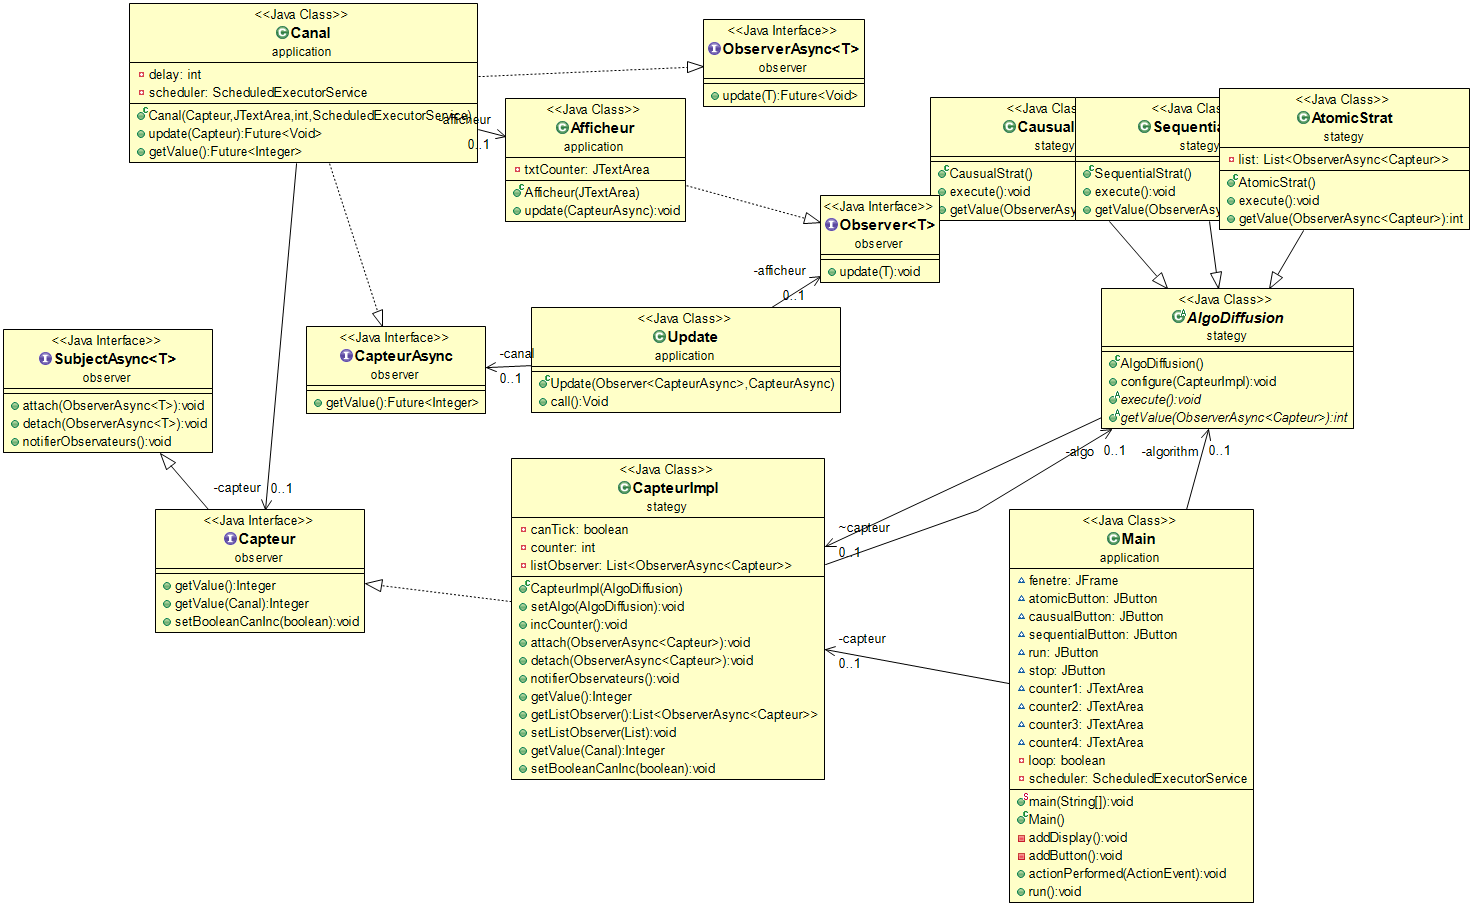
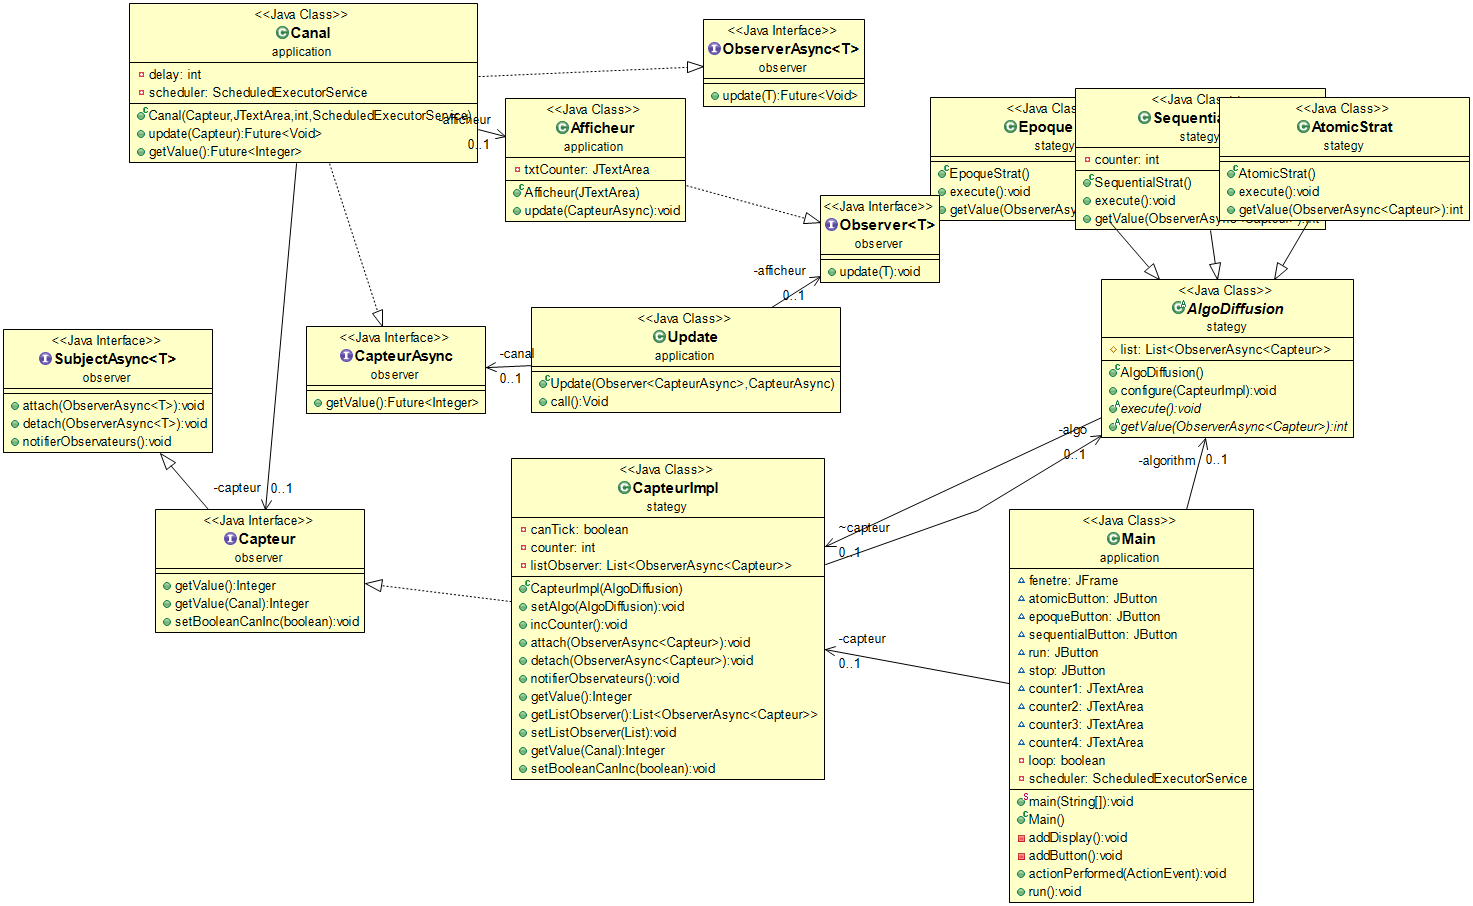
Add epoque + sequentiel

Changed region(s): [[0.6558, 0.0927, 0.9993, 0.5254], [0.7183, 0.6799, 0.7807, 0.7108], [0.687, 0.1236, 0.7183, 0.1545]]

diff --git a/src/application/Main.java b/src/application/Main.java
@@ -14,7 +14,7 @@ import javax.swing.JTextArea;
 import stategy.AlgoDiffusion;
 import stategy.AtomicStrat;
 import stategy.CapteurImpl;
-import stategy.CausualStrat;
+import stategy.EpoqueStrat;
 import stategy.SequentialStrat;
 
 // TODO: Auto-generated Javadoc
@@ -31,7 +31,7 @@ public class Main implements ActionListener,Runnable{
 	JButton atomicButton;
 	
 	/** The causual button. */
-	JButton causualButton;
+	JButton epoqueButton;
 	
 	/** The sequential button. */
 	JButton sequentialButton;
@@ -100,19 +100,19 @@ public class Main implements ActionListener,Runnable{
 	private void addDisplay() {
 		counter1 = new JTextArea("0");
 		fenetre.add(counter1);
-		capteur.attach(new Canal(capteur,counter1,100,scheduler));
+		capteur.attach(new Canal(capteur,counter1,1000,scheduler));
 		
 		counter2 = new JTextArea("0");
 		fenetre.add(counter2);
-		capteur.attach(new Canal(capteur,counter2,200,scheduler));
+		capteur.attach(new Canal(capteur,counter2,2000,scheduler));
 		
 		counter3 = new JTextArea("0");
 		fenetre.add(counter3);
-		capteur.attach(new Canal(capteur,counter3,300,scheduler));
+		capteur.attach(new Canal(capteur,counter3,3000,scheduler));
 
 		counter4 = new JTextArea("0");
 		fenetre.add(counter4);
-		capteur.attach(new Canal(capteur,counter4,400,scheduler));
+		capteur.attach(new Canal(capteur,counter4,4000,scheduler));
 		
 	}
 
@@ -124,9 +124,9 @@ public class Main implements ActionListener,Runnable{
 		fenetre.add(atomicButton);
 		atomicButton.addActionListener(this);
 		
-		causualButton = new JButton("Causual");
-		fenetre.add(causualButton);
-		causualButton.addActionListener(this);
+		epoqueButton = new JButton("Causual");
+		fenetre.add(epoqueButton);
+		epoqueButton.addActionListener(this);
 		
 		sequentialButton = new JButton("Sequential");
 		fenetre.add(sequentialButton);
@@ -152,8 +152,8 @@ public class Main implements ActionListener,Runnable{
 			algorithm = new AtomicStrat();
 			algorithm.configure(capteur);
 			capteur.setAlgo(algorithm);
-		}else if(source==causualButton){
-			algorithm = new CausualStrat();
+		}else if(source==epoqueButton){
+			algorithm = new EpoqueStrat();
 			algorithm.configure(capteur);
 			capteur.setAlgo(algorithm);
 		}else if(source==sequentialButton){

diff --git a/src/stategy/SequentialStrat.java b/src/stategy/SequentialStrat.java
@@ -1,5 +1,6 @@
 package stategy;
 
+import java.util.Iterator;
 import java.util.List;
 
 import observer.Capteur;
@@ -11,19 +12,30 @@ import observer.ObserverAsync;
  */
 public class SequentialStrat extends AlgoDiffusion{
 
+	private int counter;
+	
 	/* (non-Javadoc)
 	 * @see stategy.AlgoDiffusion#execute()
 	 */
 	@Override
 	public void execute() {
-		List<ObserverAsync<Capteur>> list = this.capteur.getListObserver();
-		
+		if(list.isEmpty()){		
+			this.counter = this.capteur.getValue();
+			list = this.capteur.getListObserver();
+			Iterator<ObserverAsync<Capteur>> ite = list.iterator();
+			
+			while(ite.hasNext()){
+				ite.next().update(capteur);
+			}
+		}
 	}
 
 	@Override
 	public int getValue(ObserverAsync<Capteur> canal) {
-		// TODO Auto-generated method stub
-		return 0;
+		if(list.contains(canal))
+			list.remove(canal);
+		System.out.println("SIZE : "+list.size());
+		return counter;
 	}
 
 }

diff --git a/src/stategy/AlgoDiffusion.java b/src/stategy/AlgoDiffusion.java
@@ -1,5 +1,8 @@
 package stategy;
 
+import java.util.ArrayList;
+import java.util.List;
+
 import observer.Capteur;
 import observer.ObserverAsync;
 
@@ -12,6 +15,9 @@ public abstract class AlgoDiffusion {
 	/** The capteur. */
 	CapteurImpl capteur;
 	
+	protected List<ObserverAsync<Capteur>> list;
+
+	
 	/**
 	 * Configure.
 	 *
@@ -19,6 +25,7 @@ public abstract class AlgoDiffusion {
 	 */
 	public void configure(CapteurImpl capteur) {
 		this.capteur = capteur;
+		list = new ArrayList<ObserverAsync<Capteur>>();
 	}
 	
 	/**

diff --git a/src/stategy/EpoqueStrat.java b/src/stategy/EpoqueStrat.java
@@ -9,7 +9,7 @@ import observer.ObserverAsync;
 /**
  * The Class CausualStrat.
  */
-public class CausualStrat extends AlgoDiffusion{
+public class EpoqueStrat extends AlgoDiffusion{
 
 	/* (non-Javadoc)
 	 * @see stategy.AlgoDiffusion#execute()
@@ -25,7 +25,7 @@ public class CausualStrat extends AlgoDiffusion{
 	@Override
 	public int getValue(ObserverAsync<Capteur> canal) {
 		// TODO Auto-generated method stub
-		return 0;
+		return capteur.getValue();
 	}
 
 }

diff --git a/src/stategy/AtomicStrat.java b/src/stategy/AtomicStrat.java
@@ -13,7 +13,6 @@ import observer.ObserverAsync;
  */
 public class AtomicStrat extends AlgoDiffusion{
 	
-	private List<ObserverAsync<Capteur>> list;
 
 	/* (non-Javadoc)
 	 * @see stategy.AlgoDiffusion#execute()
